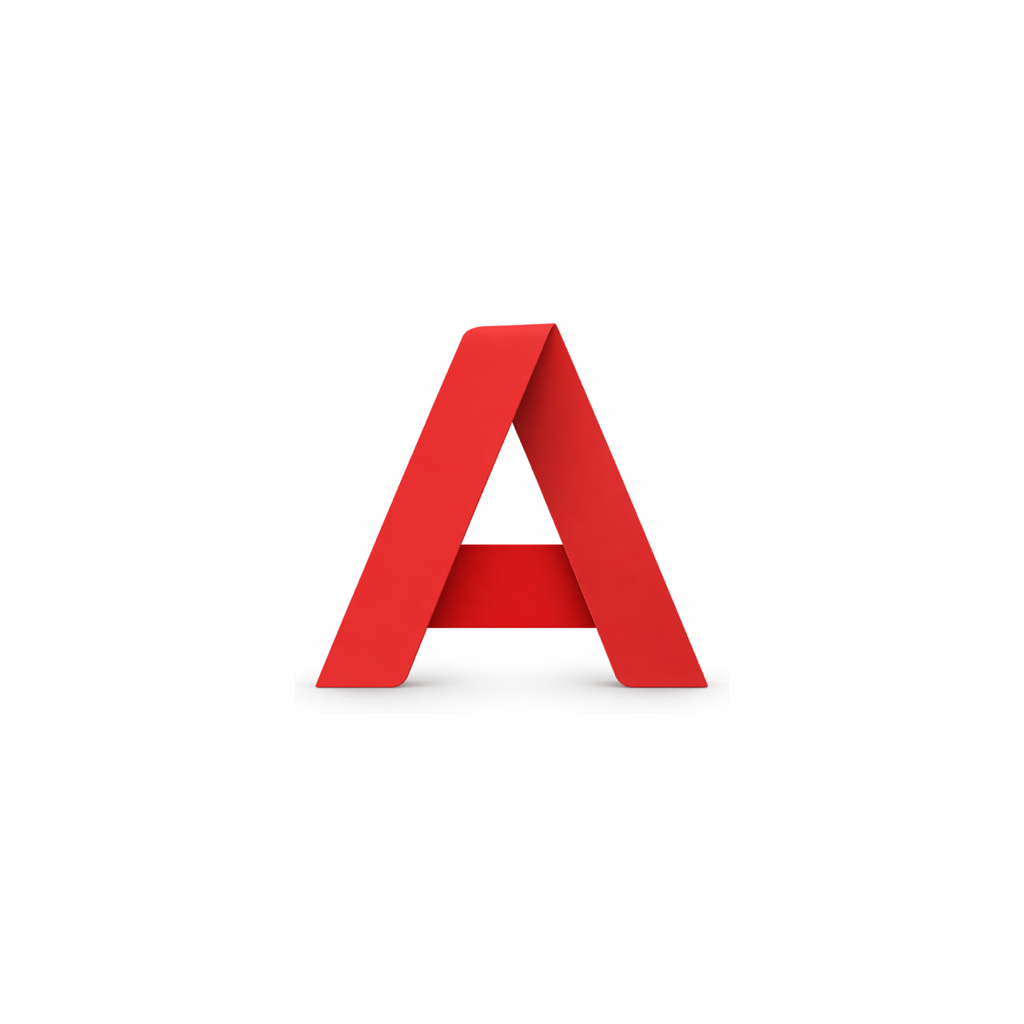
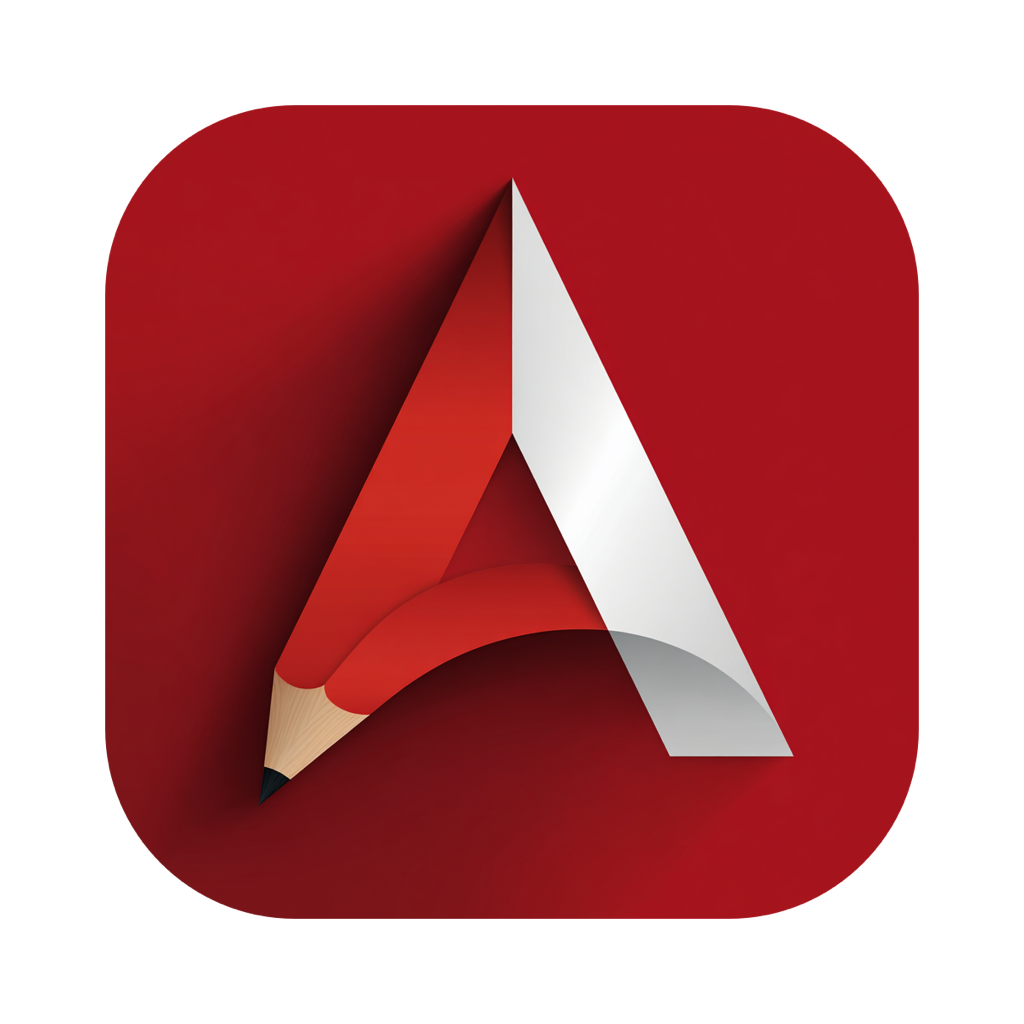
更新了图标

diff --git a/CURRENT_STATUS.md b/CURRENT_STATUS.md
@@ -48,7 +48,8 @@ ArtFlex 当前已经是一个功能面明显超出最小 MVP 的 macOS Metal 绘
 
 - 单资源文件：[Platform/macOS/Resources/AppIcon.png](Platform/macOS/Resources/AppIcon.png)
 - 运行时由 [Platform/macOS/App/ArtFlexApp.swift](Platform/macOS/App/ArtFlexApp.swift) 设置 `NSApp.applicationIconImage`
-- 当前图标已经按 mac app icon 的圆角底板与更保守安全区做过一轮标准化处理；如果后续继续调整，默认先改这张资源图，而不是假设项目已经有 `.appiconset` / `.icns` 主链
+- 当前图标最近一次是替换内部 artwork，并保留现有图标的整体大小和圆角轮廓
+- 如果后续继续调整，默认先改这张资源图，而不是假设项目已经有 `.appiconset` / `.icns` 主链
 
 ### 2.3 当前已接入主链的工具
 

diff --git a/README.md b/README.md
@@ -39,7 +39,8 @@ ArtFlex 是旧版 `BrushCanvas` 的 Metal-first 重构版 macOS 绘图软件。
 当前应用图标也有一条实现约束：
 
 - 仍然使用 `Platform/macOS/Resources/AppIcon.png` 这条单资源链，由运行时设置 `NSApp.applicationIconImage`
-- 当前这张图标已经按 mac 风格做了圆角底板与更保守的安全区处理；后续如果要继续调图标，优先继续修这张资源，不要先分叉到另一套 iconset 方案
+- 当前这张图标最近一次是替换内部 artwork，同时保留现有图标的整体大小与圆角轮廓
+- 后续如果要继续调图标，优先继续修这张资源，不要先分叉到另一套 iconset 方案
 
 ## 文档入口
 

diff --git a/DECISIONS.md b/DECISIONS.md
@@ -225,5 +225,6 @@
 - 应用图标仍然由 `Platform/macOS/Resources/AppIcon.png` 提供
 - 运行时通过 `ArtFlexApp.applyApplicationIconIfAvailable()` 设置到 `NSApp.applicationIconImage`
 - 当前不要默认假设项目已经切到 `.appiconset` / `.icns` 主链
+- 最近一次应用图标更新是替换内部 artwork，同时保留现有图标的整体大小与圆角轮廓
 
 后续如果只是继续调整应用图标外观，默认先继续修这张 PNG 资源，不要为了小改动就先扩出另一套图标资源体系。

diff --git a/HANDOFF.md b/HANDOFF.md
@@ -68,6 +68,7 @@
 
 - 资源文件：`Platform/macOS/Resources/AppIcon.png`
 - 运行时设置：`ArtFlexApp.applyApplicationIconIfAvailable()`
+- 最近一次更新是替换内部 artwork，同时保留现有图标的整体大小与圆角轮廓
 
 也就是说，当前主工程还没有单独维护 `.appiconset` / `.icns` 主链；如果后续只是在调图标外观，默认先继续修这张 PNG 资源。
 
